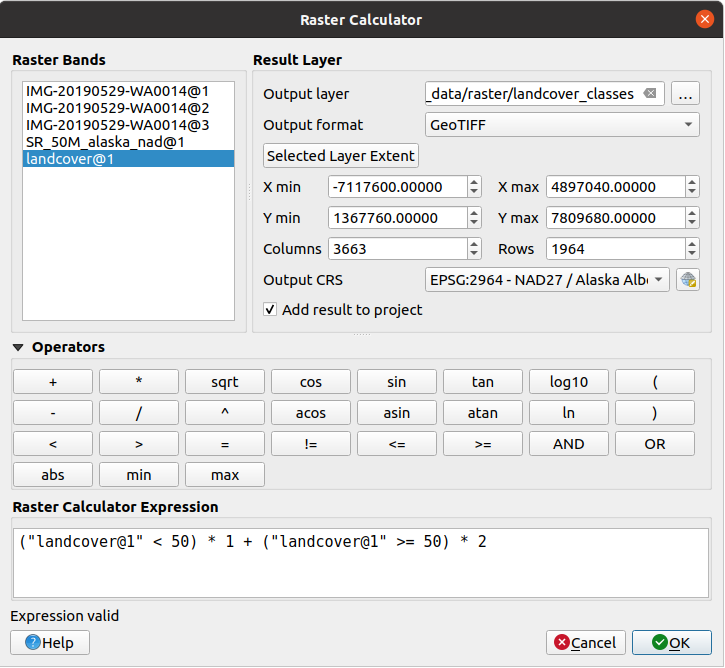
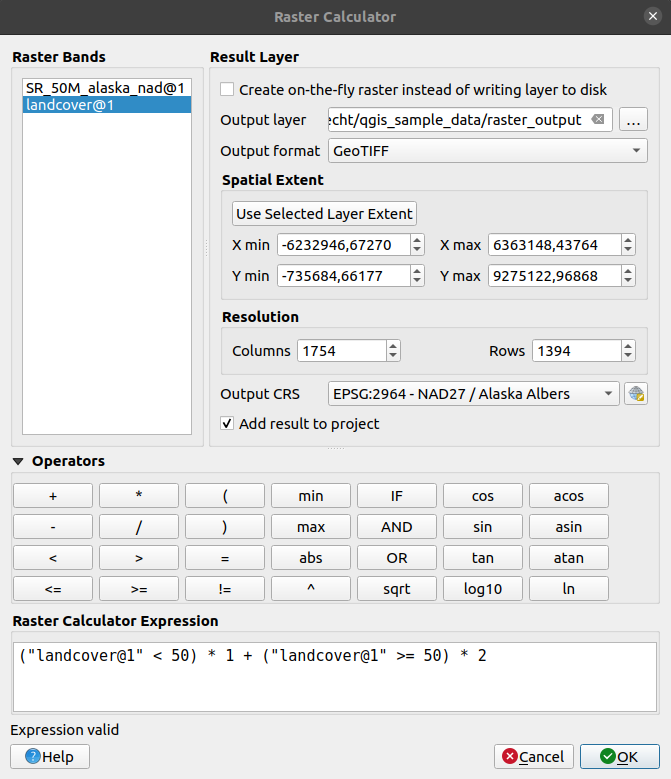
updated image in raster calculator (#7377)
fixes #7361
Added examples

diff --git a/docs/user_manual/working_with_raster/raster_analysis.rst b/docs/user_manual/working_with_raster/raster_analysis.rst
@@ -96,6 +96,7 @@ evaluates to 1, which keeps the original value by multiplying it by 1.
 Otherwise the conditional expression evaluates to 0, which sets the raster value to 0.
 This creates the mask on the fly.
 
+**Classify a Raster**
 
 If you want to classify a raster -- say, for instance into two elevation classes,
 you can use the following expression to create a raster with two values 1 and 2
@@ -107,6 +108,12 @@ in one step.
 
 In other words, for every cell less than 50 set its value to 1. For every cell
 greater than or equal 50 set its value to 2.
+
+Or you can use the ``IF`` operator. 
+
+::
+
+  if ( elevation@1 < 50 , 1 , 2 )
 
 .. index::
    single: Raster; Align Raster
